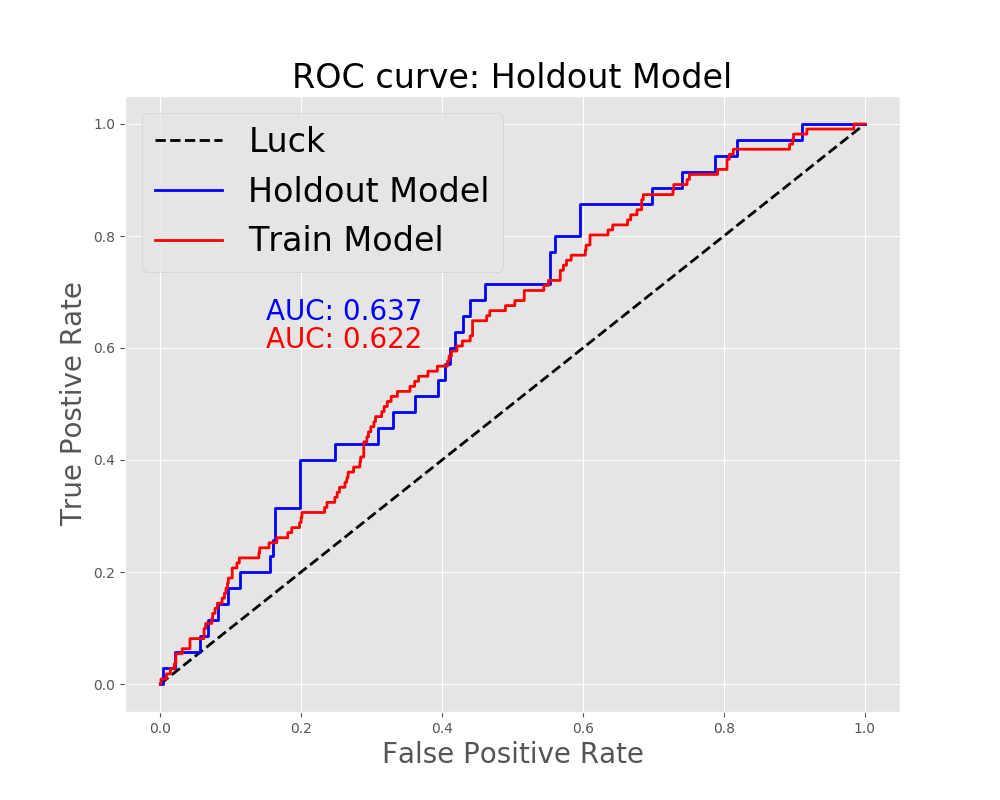
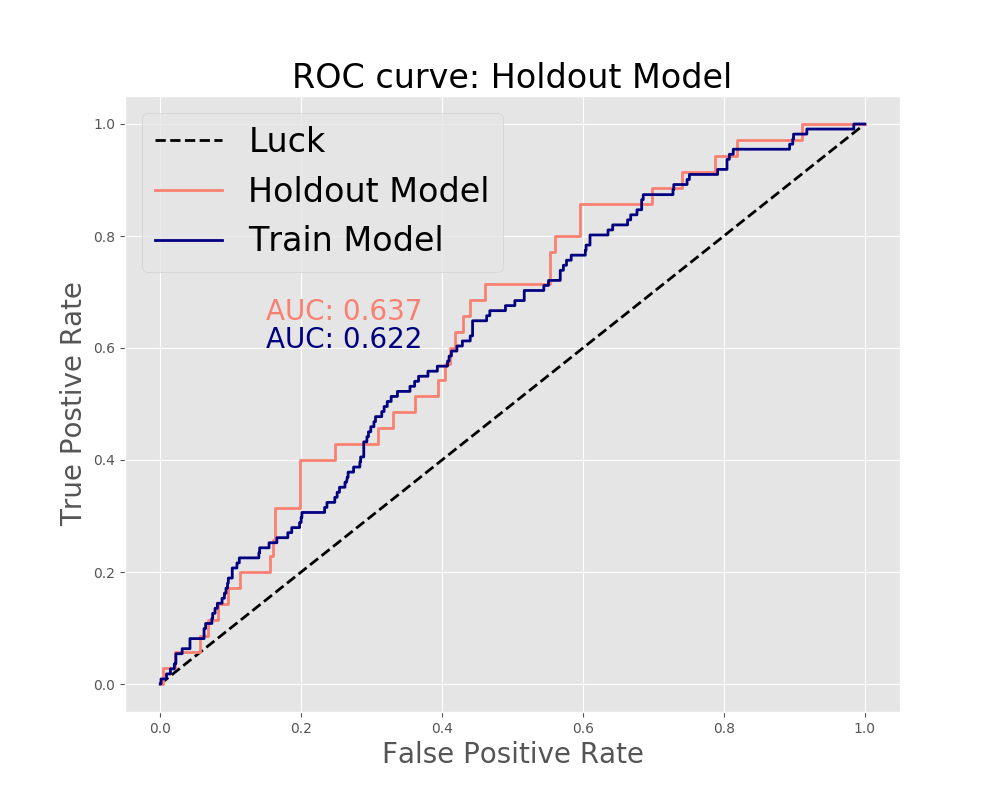
fixing colors of cf

diff --git a/src/final_mod.py b/src/final_mod.py
@@ -59,14 +59,14 @@ fig = plt.figure(figsize=(10,8))
 ax = fig.add_subplot(111)
 ax.plot([0, 1], [0, 1], linestyle='--', lw=2, color='k',
          label='Luck')
-ax.plot(fpr, tpr, color='b', lw=2, label='Test Model')
-ax.plot(fpr1, tpr1, color='r', lw=2, label='Train Model')
+ax.plot(fpr, tpr, color='salmon', lw=2, label='Test Model')
+ax.plot(fpr1, tpr1, color='navy', lw=2, label='Train Model')
 
 ax.set_xlabel("False Positive Rate", fontsize=20)
 ax.set_ylabel("True Postive Rate", fontsize=20)
 ax.set_title("ROC curve: Final Model", fontsize=24)
-ax.text(0.15, 0.65, " ".join(["AUC:",str(auc_final.round(3))]), fontsize=20, color = 'b')
-ax.text(0.15, 0.6, " ".join(['AUC:',str(auc_train.round(3))]), fontsize=20, color = 'r')
+ax.text(0.15, 0.65, " ".join(["AUC:",str(auc_final.round(3))]), fontsize=20, color = 'salmon')
+ax.text(0.15, 0.6, " ".join(['AUC:',str(auc_train.round(3))]), fontsize=20, color = 'navy')
 ax.legend(fontsize=24)
 
 plt.savefig('../images/ROC_final.png')
@@ -87,7 +87,7 @@ def generate_confusion_matrix(y_test, y_pred, labels, title, filename, show=Fals
     label = (np.asarray(["{1}\n({0})".format(string, value)
                       for string, value in zip(strings.flatten(),
                                                cm.flatten())])).reshape(2, 2)
-    ax = sns.heatmap(df_cm, annot=label,fmt="", cmap='Blues_r', annot_kws={'size':16},cbar = False)
+    ax = sns.heatmap(df_cm, annot=label,fmt="", cmap='bwr', annot_kws={'size':16},cbar = False)
     plt.ylabel("Actual Label", fontsize=14, fontweight='bold')
     plt.xlabel("Predicted Label", fontsize=14, fontweight='bold')
     plt.title(title, fontsize=14, fontweight='bold')
@@ -134,14 +134,14 @@ fig = plt.figure(figsize=(10,8))
 ax = fig.add_subplot(111)
 ax.plot([0, 1], [0, 1], linestyle='--', lw=2, color='k',
          label='Luck')
-ax.plot(fpr_h, tpr_h, color='b', lw=2, label='Holdout Model')
-ax.plot(fpr1_h, tpr1_h, color='r', lw=2, label='Train Model')
+ax.plot(fpr_h, tpr_h, color='salmon', lw=2, label='Holdout Model')
+ax.plot(fpr1_h, tpr1_h, color='navy', lw=2, label='Train Model')
 
 ax.set_xlabel("False Positive Rate", fontsize=20)
 ax.set_ylabel("True Postive Rate", fontsize=20)
 ax.set_title("ROC curve: Holdout Model", fontsize=24)
-ax.text(0.15, 0.65, " ".join(["AUC:",str(auc_final_holdout.round(3))]), fontsize=20, color = 'b')
-ax.text(0.15, 0.6, " ".join(['AUC:',str(auc_train_holdout.round(3))]), fontsize=20, color = 'r')
+ax.text(0.15, 0.65, " ".join(["AUC:",str(auc_final_holdout.round(3))]), fontsize=20, color = 'salmon')
+ax.text(0.15, 0.6, " ".join(['AUC:',str(auc_train_holdout.round(3))]), fontsize=20, color = 'navy')
 ax.legend(fontsize=24)
 
 plt.savefig('../images/ROC_holdout.png')

diff --git a/README.md b/README.md
@@ -105,6 +105,8 @@ Because age is significant, we can look at the exp(0.0595) = 1.06
 
 # Discussion
 
-# Strengths & Limitations
+
 
 # Future Steps
+* Re-do analysis including the other years that NHANES has available (approximately 10 more years worth of data).
+*
